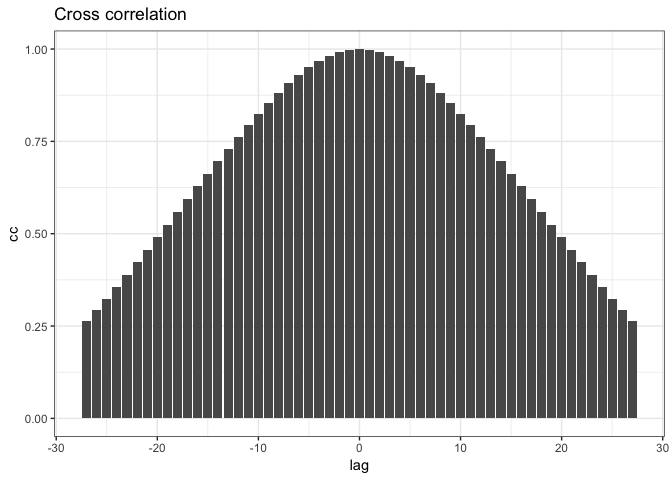
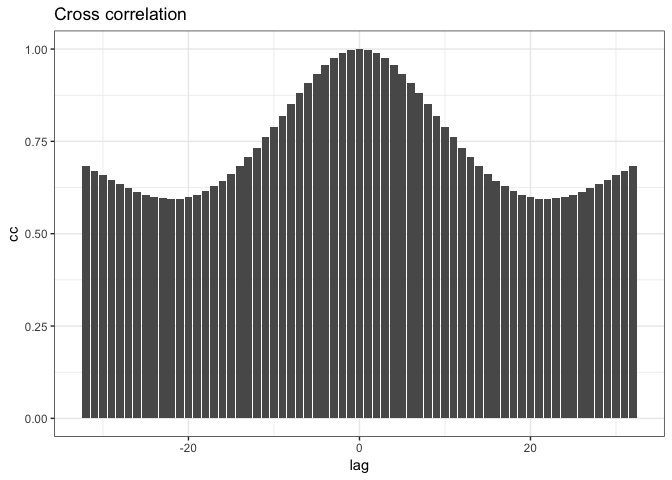
Experiment updated

diff --git a/docs/Experiments.md b/docs/Experiments.md
@@ -30,7 +30,7 @@ Choose:
 -   dataFlag = F, to use a real pulsar photometry
 
 ``` r
-dataFlag = T
+dataFlag = F
 ```
 
 Data generation
@@ -117,26 +117,28 @@ result <- process(
 
     ## ::: Debug information :::
     ## 
-    ## Number of frequences to be processed: 101
-    ## Number of frequences after drop the g regimen: 50
-    ## Frequencies: 1.83352, 1.94811, 1.71892, 2.06271, 1.60433, 2.1773, 1.48973, 2.2919, 2.40649, 1.37514, 2.52109, 2.63568, 1.26054, 2.75028, 2.86487, 2.97946, 1.14595, 3.09406, 3.20865, 3.32325, Range: 30, 50,  Iteration over range: 30
-    ##    Frequencies selected: 1.83352, 1.94811, 1.71892, 2.06271, 1.60433, 2.1773, 1.48973, 2.2919, 2.40649, 1.37514, 2.52109, 2.63568, 1.26054, 2.75028, 2.86487, 2.97946, 1.14595, 3.09406, 3.20865, 3.32325, 
-    ##    Amplitudes selected: 0.998384, 0.0830948, 0.0671104, 0.041144, 0.0335765, 0.0278634, 0.0218368, 0.0213431, 0.0174669, 0.0158437, 0.0148973, 0.013069, 0.0121994, 0.0117024, 0.010643, 0.00979842, 0.00974385, 0.00911032, 0.00853982, 0.00806009, 
-    ##     Dnu: 2.0098
-    ##     Dnu Peak: 2.0098
-    ##     Dnu Guess: 0.305586
-    ##     Cross correlation calculated:0.262757, 0.293021, 0.3243, 0.356428, 0.389248, 0.422619, 0.456412, 0.490516, 0.524827, 0.55925, 
-    ##  Iteration over range: 50
+    ## Number of frequences to be processed: 43372
+    ## Number of frequences after drop the g regimen: 21686
+    ## Frequencies: 264.505, 264.113, 260.586, 264.897, 263.721, 265.288, 268.423, 263.329, 256.668, 251.965, 265.68, 252.749, 268.815, 261.762, 262.154, 268.031, 269.207, 271.95, 272.342, 261.37, Range: 30, 60, 65058,  Iteration over range: 30
+    ##    Frequencies selected: 264.505, 264.113, 260.586, 264.897, 263.721, 265.288, 268.423, 263.329, 256.668, 251.965, 265.68, 252.749, 268.815, 261.762, 262.154, 268.031, 269.207, 271.95, 272.342, 261.37, 
+    ##    Amplitudes selected: 2.18044, 0.514798, 0.512875, 0.489923, 0.370046, 0.343731, 0.263693, 0.263439, 0.251894, 0.221904, 0.221506, 0.184744, 0.164693, 0.159859, 0.128805, 0.128227, 0.123996, 0.112269, 0.112108, 0.111359, 
+    ##     Dnu: 1.0198
+    ##     Dnu Peak: 3.9304
+    ##     Dnu Guess: 82.9435
+    ##     Cross correlation calculated:0.682078, 0.670522, 0.658349, 0.646074, 0.634194, 0.623175, 0.613438, 0.605355, 0.599246, 0.595376, 
+    ##  Iteration over range: 60
+    ##     Nothing to do
+    ##  Iteration over range: 65058
     ##     Nothing to do
 
 #### Main results
 
--   **Dnu** (`result$dnu`) = 2.0098.
--   **DnuGuess** `(result$dnuGuess`) = 0.3055861.
--   **DnuPeak** (`result$dnuPeak`) = 2.0098.
--   **Frequency** (`result$photometry$frequency`) = 1.8335167, 1.9481115, 1.7189219, 2.0627063, 1.6043271, 2.1773011, 1.4897323, 2.2918959, 2.4064906, 1.3751375, 2.5210854, 2.6356802, 1.2605427, 2.750275, 2.8648698, 2.9794646, 1.1459479, 3.0940594, 3.2086542, 3.323249, 1.0313531, 3.4378438, 3.5524386, 3.6670334, 3.7816282...
--   **Amplitude** (`result$photometry$amplitude`) = 0.9983844, 0.0830948, 0.0671104, 0.041144, 0.0335765, 0.0278634, 0.0218368, 0.0213431, 0.0174669, 0.0158437, 0.0148973, 0.013069, 0.0121994, 0.0117024, 0.010643, 0.0097984, 0.0097439, 0.0091103, 0.0085398, 0.0080601, 0.0079736, 0.007652, 0.0073015, 0.0069982, 0.0067341...
--   **Diffs** (`result$diffHistogram$diffs`) = 0.1145948, 0.1145948, 0.2291896, 0.2291896, 0.3437844, 0.3437844, 0.4583792, 0.572974, 0.4583792, 0.6875688, 0.8021635, 0.572974, 0.9167583, 1.0313531, 1.1459479, 0.6875688, 1.2605427, 1.3751375, 1.4897323, 0.8021635, 1.6043271, 1.7189219, 1.8335167, 1.9481115, 0.9167583...
+-   **Dnu** (`result$dnu`) = 1.0198.
+-   **DnuGuess** `(result$dnuGuess`) = 82.9434636.
+-   **DnuPeak** (`result$dnuPeak`) = 3.9304.
+-   **Frequency** (`result$photometry$frequency`) = 264.5047462, 264.1128873, 260.5861574, 264.8966051, 263.7210285, 265.288464, 268.4233351, 263.3291696, 256.6675686, 251.965262, 265.6803229, 252.7489797, 268.8151939, 261.761734, 262.1535929, 268.0314762, 269.2070528, 271.950065, 272.3419239, 261.3698752, 272.7337828, 275.8686538, 248.8303909, 279.7872427, 266.8558995...
+-   **Amplitude** (`result$photometry$amplitude`) = 2.1804436, 0.5147979, 0.5128749, 0.4899226, 0.370046, 0.3437311, 0.2636926, 0.2634394, 0.2518944, 0.2219042, 0.2215065, 0.1847437, 0.1646934, 0.1598589, 0.128805, 0.1282273, 0.1239962, 0.1122691, 0.1121075, 0.1113586, 0.1020067, 0.1011121, 0.0864705, 0.0853575, 0.0775335...
+-   **Diffs** (`result$diffHistogram$diffs`) = 0.3918589, 3.9185888, 0.3918589, 0.7837178, 0.7837178, 3.9185888, 1.1755766, 7.8371777, 12.5394843, 1.1755766, 11.7557665, 4.3104477, 2.7430122, 2.3511533, 3.5267299, 4.7023066, 7.4453188, 7.8371777, 3.1348711, 8.2290365, 11.3639076, 15.6743553, 15.2824964, 2.3511533, 2.7430122...
 
 #### Apodization
 
